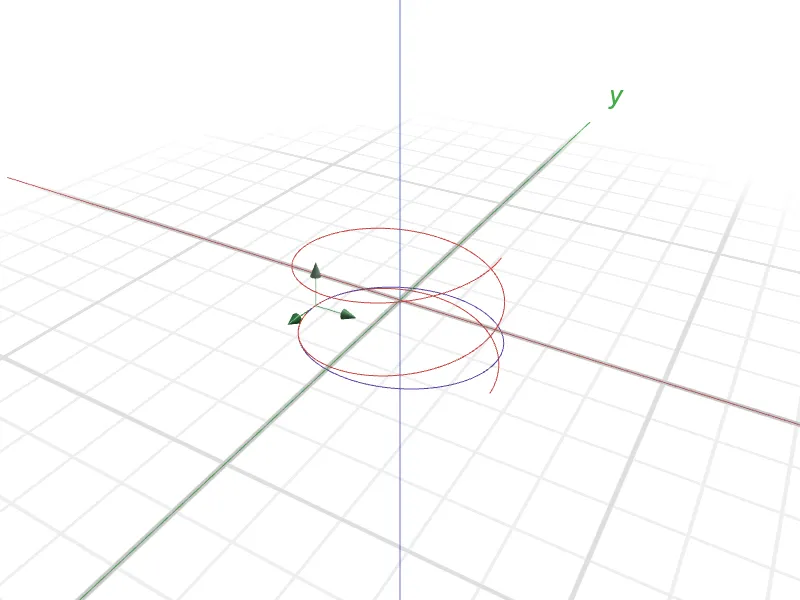
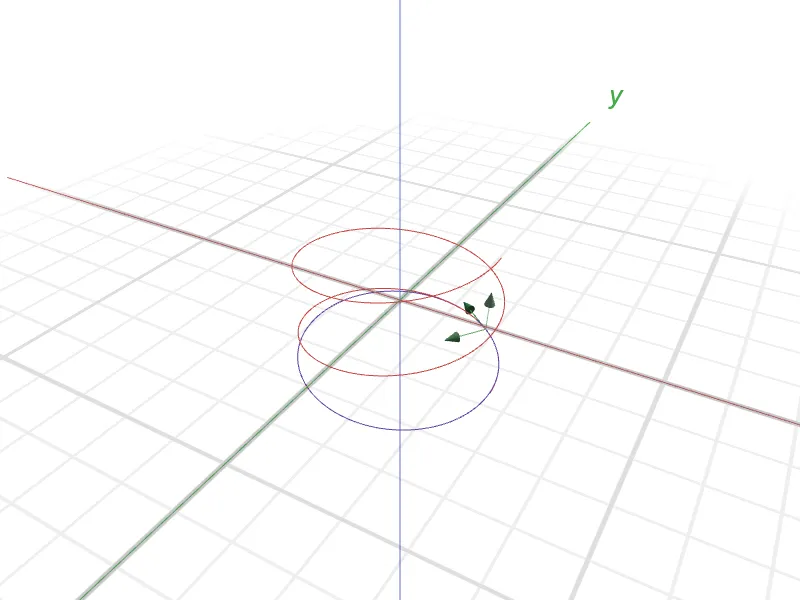
Helix frame rides up and back; llms.txt ride-along traces the curve once
The helix example's u0 = t/10 left the helix after ten seconds (C5): it is
now (1 − cos(πt/10))/2. llms.txt's ride-along used plain u with u0 = t,
on the drawn arc one second in 2π (C8). Curve example shots retaken in
both themes.

Claude-Session: https://claude.ai/code/session_016sEL6u5imYZH8hA2jSvm88

diff --git a/lib/llms-txt.test.ts b/lib/llms-txt.test.ts
@@ -102,8 +102,8 @@ describe('llms.txt', () => {
       // Curves.
       [[], 'curvature((u, u^2), 0)', 'value'],
       [['C = (2cos(u), sin(u))'], '(u, curvature(C))', 'curve'],
-      [['C = (2cos(u), sin(u))'], 'frame(C, t)', 'family'],
-      [['C = (2cos(u), sin(u))'], 'osculating(C, t)', 'curve'],
+      [['C = (2cos(2pi u), sin(2pi u))'], 'frame(C, t/10)', 'family'],
+      [['C = (2cos(2pi u), sin(2pi u))'], 'osculating(C, t/10)', 'curve'],
       // A tuple of rows is a matrix; a bracket of tuples is points.
       [[], '((0, -1), (1, 0)) (2, 1)', 'point'],
       [[], 'det(((1, 2), (3, 4)))', 'value'],
@@ -129,6 +129,9 @@ describe('llms.txt', () => {
     expect(readout(['curl((-y, x))'])).toBe('= 2');
     expect(readout(['laplacian(x^2 + y^2)'])).toBe('= 4');
     expect(readout(['curvature((u, u^2), 0)'])).toBe('= 2');
+    // A ride-along traces the curve once over the u a C row draws.
+    expect(llms).toContain('`C = (2cos(2pi u), sin(2pi u))`, `C`, `frame(C, t/10)`');
+    expect(llms).not.toMatch(/frame\(C, t\)/);
     expect(readout(['curvature((2cos(u), -2sin(u)), 0)'])).toBe('= -0.5');
     expect(readout(['C = (2cos(u), 2sin(u), u)', 'curvature(C, 1)'])).toBe('= 0.4');
     expect(readout(['C = (2cos(u), 2sin(u), u)', 'torsion(C, 1)'])).toBe('= 0.2');

diff --git a/web/examples.ts b/web/examples.ts
@@ -968,10 +968,11 @@ export const EXAMPLES: Array<[string, Array<[string, string, string]>]> = [
       ['figure eight', 'tube(((2+cos(4pi u))cos(6pi u), (2+cos(4pi u))sin(6pi u), sin(8pi u)))', '3d parametric knot'],
       ['Viviani', 'tube((1+cos(4pi u), sin(4pi u), 2sin(2pi u)), 0.06)', '3d parametric'],
       // T, N and B ride the curve; the osculating circle lies in the plane
-      // of T and N, and torsion is how fast that plane turns.
+      // of T and N, and torsion is how fast that plane turns. A helix does
+      // not close up, so s runs up it and back down.
       [
         'Frenet frame on a helix',
-        'C = (2cos(4pi u), 2sin(4pi u), 3u - 1.5); C; frame(C, t/10); osculating(C, t/10); curvature(C, t/10); torsion(C, t/10)',
+        'C = (2cos(4pi u), 2sin(4pi u), 3u - 1.5); s = (1 - cos(pi t/10))/2; C; frame(C, s); osculating(C, s); curvature(C, s); torsion(C, s)',
         '3d parametric derivative animated',
       ],
       [
